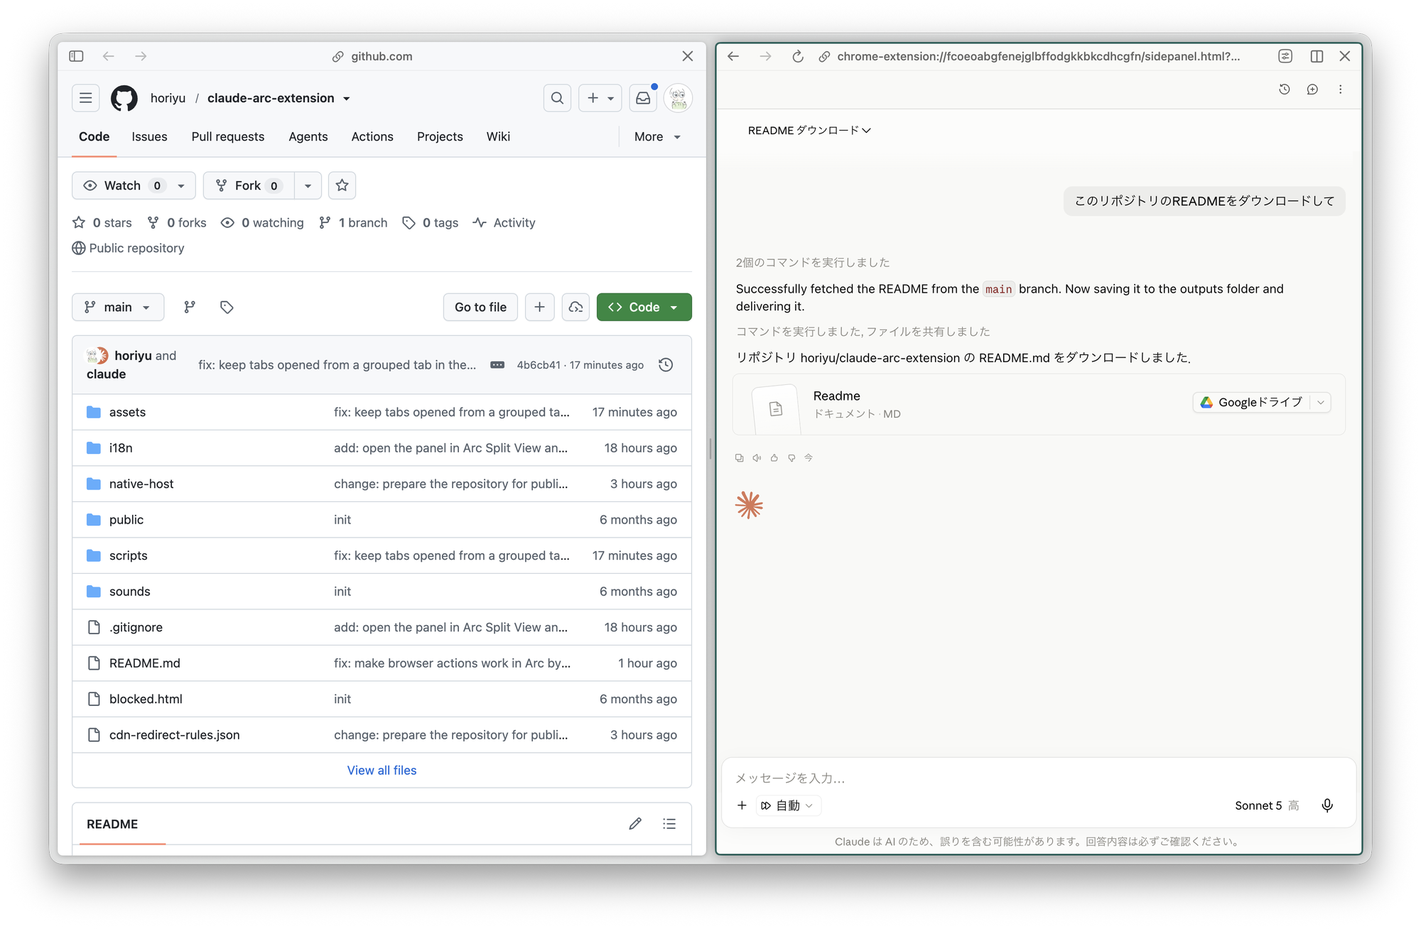
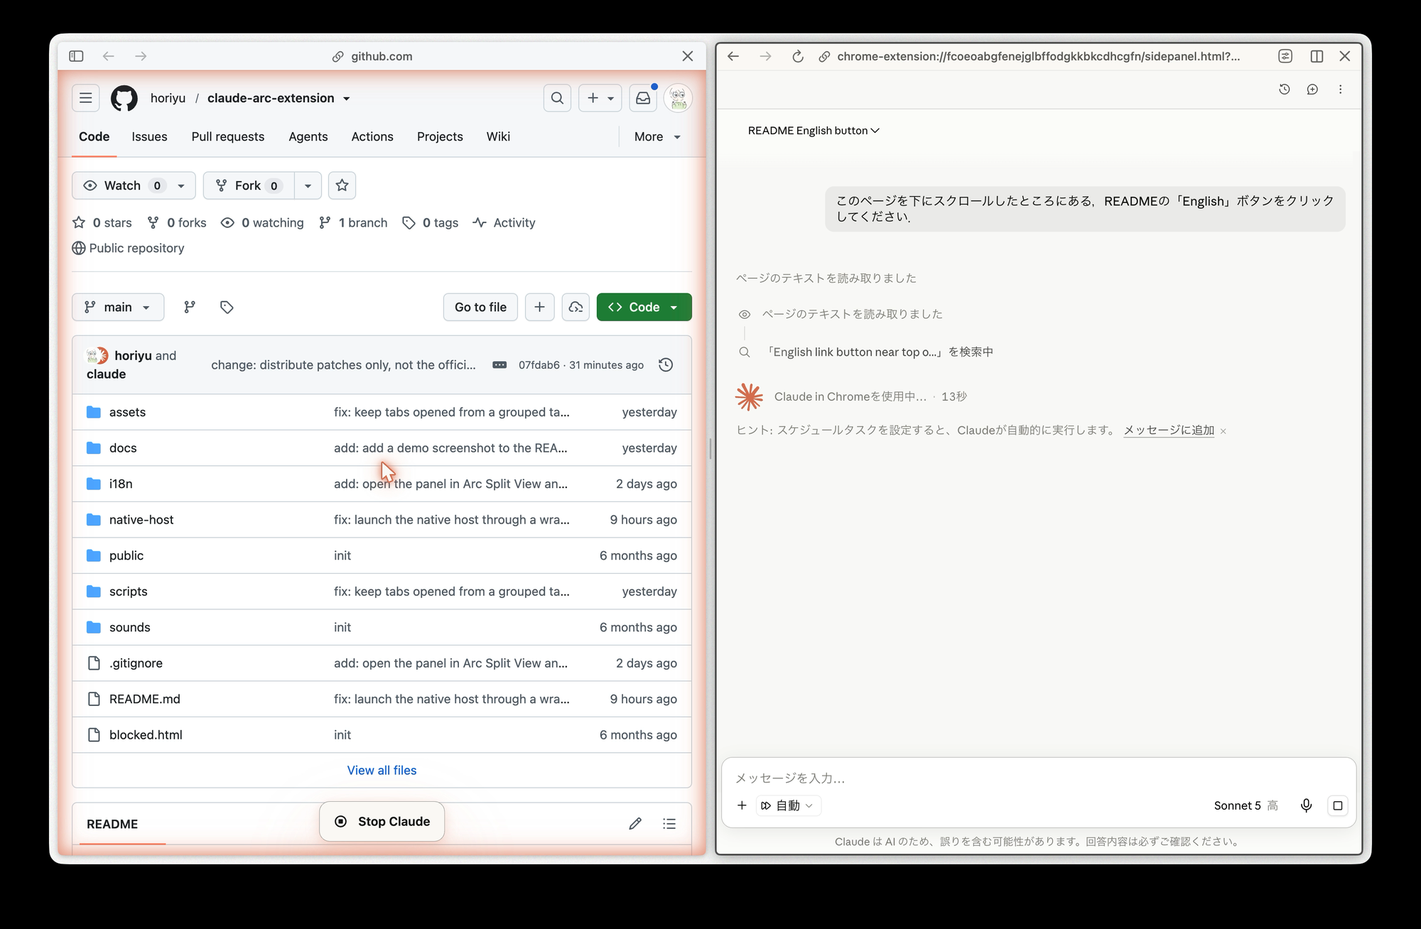
update: replace the demo screenshot with one showing an action in progress
Claude-Session: https://claude.ai/code/session_01GJ92grWsmEHpt6NHLjgGCB

diff --git a/README.md b/README.md
@@ -4,14 +4,14 @@
 
 ## 日本語
 
-公式の「Claude in Chrome」拡張機能のビルド済みバンドルに，Side Panel API を持たない Arc ブラウザで動作させるための変更を加えた，個人利用向けの非公式ビルドです．Claude のパネルは通常タブとして，または任意で Arc の Split View のペインとして開きます．
+公式の「Claude in Chrome」拡張機能を，Side Panel API を持たない Arc ブラウザで動かすための，個人利用向けの非公式パッチ集です．利用者が自分で入手した公式拡張機能に手元でパッチを当てて Arc 版を生成します．本リポジトリに Anthropic の配布物は含まれていません．生成した Claude のパネルは通常タブとして，または任意で Arc の Split View のペインとして開きます．
 
 > [!WARNING]
 > このリポジトリは非公式・実験的なものです．Anthropic，Claude，The Browser Company，Arc とは関係ありません．
 
 ![Arc の Split View で開いた Claude のパネルが，隣のタブの GitHub ページを操作している様子](docs/demo.png)
 
-左が操作対象のタブ，右が Split View で開いた Claude のパネルです．パネルからの指示で，隣のタブのページを読み取り，操作できます．
+左が操作対象のタブ，右が Split View で開いた Claude のパネルです．パネルからの指示で，隣のタブのページを読み取り，操作できます．操作中のタブにはオレンジ色の枠と「Stop Claude」ボタンが表示されます．
 
 ## 概要
 
@@ -24,9 +24,9 @@
 - タスクのスケジュール実行や通知を利用する
 - 必要に応じてファイル操作やダウンロード機能を利用する
 
-## ベースとなる公式拡張機能と変更点
+## 仕組みと変更点
 
-本リポジトリは，公式の「Claude in Chrome」拡張機能（バージョン 1.0.93）のビルド済みバンドルに，Arc 向けの変更を加えたものです．主な変更点は次の通りです．
+`build.sh` は，Chrome（または Arc）にインストール済みの公式「Claude in Chrome」拡張機能（拡張機能 ID `fcoeoabgfenejglbffodgkkbkcdhcgfn`）を `build/` に複製し，`scripts/` の 3 つのスクリプトで次の変更を加えます．公式拡張機能はバージョン 1.0.93 で確認しています．
 
 - Arc に Side Panel API が無いため，サイドパネルの代わりに拡張機能ページを通常タブとして開く
 - `Claude in Chrome` 等の表示文言を `Claude in Arc` に置換する
@@ -35,27 +35,15 @@
 - 拡張機能の読み込み前から開いていたページには，ページ読み取り用の補助スクリプトを実行時に注入する（公式版では該当ページの再読み込みが必要）
 - 任意で，同梱のネイティブホストにより Arc の Split View としてパネルを開く（後述）
 
-バンドル本体（`assets/`，`i18n/`，`sounds/`，`manifest.json` ほかリポジトリ直下のファイル）は，Anthropic が配布する同拡張機能（拡張機能 ID `fcoeoabgfenejglbffodgkkbkcdhcgfn`）の複製であり，本リポジトリの作者はこれらのファイルについて権利を主張しません．バンドルには gif.js や KaTeX フォントなど，それぞれのライセンスに従う第三者製コンポーネントも含まれます．上流との差分は，次節のスクリプトが書き換えるファイル（`manifest.json`，`sidepanel.html`，`managed_schema.json`，`i18n/*.json`，および `assets/` 内の service worker，ツール実行部，表示文言を含むいくつかのチャンク）と，本リポジトリで追加した `cdn-redirect-rules.json`，`native-host/`，`scripts/`，`README.md`，`.gitignore` に限られます．`git-hash.txt` は上流ビルドに含まれるコミットハッシュであり，本リポジトリのものではありません．
+スクリプトの役割は次の通りです．`apply_arc_patches.py` はマニフェスト，通常タブへのフォールバック，タブグループの擬似実装，補助スクリプトの注入，ネットワークルールを適用します．`patch_sender_checks.py` は，サイドパネルを通常タブで代替している Arc 版でも service worker がパネルからのメッセージを受け付けるようにします．`rebrand_chrome_strings.py` は，画面に表示される「Chrome」の表記を「Arc」に置き換えます．いずれも `build/` 内のファイルだけを書き換え，公式拡張機能のインストール先には触れません．
 
-## 公式ビルドの更新に追従する手順
-
-公式拡張機能が更新された場合は，Chrome にインストールされた新しいビルド（macOS では `~/Library/Application Support/Google/Chrome/<プロファイル>/Extensions/fcoeoabgfenejglbffodgkkbkcdhcgfn/<バージョン>_0/`．Chrome が生成する `_metadata/` は複製不要）を作業ディレクトリへ複製し，次の 3 つをこの順に実行します．
-
-```
-python3 scripts/apply_arc_patches.py <作業ディレクトリ>
-python3 scripts/patch_sender_checks.py <作業ディレクトリ>
-python3 scripts/rebrand_chrome_strings.py <作業ディレクトリ>
-```
-
-1 つ目はマニフェスト，通常タブへのフォールバック，タブグループの擬似実装，補助スクリプトの注入，ネットワークルールを適用します．2 つ目は，サイドパネルを通常タブで代替している Arc 版でも service worker がパネルからのメッセージを受け付けるようにする修正です．3 つ目は，画面に表示される「Chrome」の表記を「Arc」に置き換えます．実行後，本リポジトリのうち `scripts/`，`native-host/`，`README.md`，`.gitignore` 以外を作業ディレクトリの内容で置き換えます（新しいビルドに無くなったファイルは削除します）．
-
-最初の 2 つのスクリプトは minify された識別子を文字列一致で探して書き換えるため，公式ビルド側のコードが変わると `AssertionError` で停止します．その場合はスクリプト内の検索パターンを新しいビルドに合わせて更新してください．3 つ目は見つからない語句を読み飛ばすだけで停止しないため，出力される置換件数を確認し，残った「Chrome」表記があれば語句リストに追加してください．
+生成物 `build/` は，利用者自身が入手した公式拡張機能の複製にパッチを当てたものです．その権利は Anthropic および各コンポーネント（gif.js や KaTeX フォントなど）の元の著作権者に帰属します．本リポジトリの作者が権利を有するのは `scripts/`，`native-host/`，`build.sh` および Arc 向けの変更内容に限られ，`build/` は `.gitignore` により追跡対象外です．
 
 ## 注意事項
 
 この拡張機能は開発者向け・検証用途のものです．公開ストアで配布される一般利用向け拡張機能ではありません．
 
-また，`manifest.json` では以下のような強い権限を要求します（完全な一覧は `manifest.json` の `permissions` を参照してください）．
+また，生成される `manifest.json` は以下のような強い権限を要求します（完全な一覧は `manifest.json` の `permissions` を参照してください）．
 
 - `host_permissions: ["<all_urls>"]`
 - `debugger`
@@ -76,22 +64,25 @@ python3 scripts/rebrand_chrome_strings.py <作業ディレクトリ>
 
 ### 前提条件
 
-- Arc（macOS 版で確認）．拡張機能本体はこれだけで動きます
+- macOS と Arc
+- 同じ Mac の Chrome（または Arc）に，Chrome Web Store から公式の「Claude in Chrome」拡張機能がインストールされていること．`build.sh` はそこから複製します
+- Python 3（`build.sh` と，Split View 連携のネイティブホストが使います）．`/usr/bin/python3`（Xcode Command Line Tools），python.org 版，Homebrew 版のいずれかで構いません．`/usr/bin/python3` は Xcode の更新後にライセンス再同意（`sudo xcodebuild -license accept`）を求めて停止することがありますが，他の Python があればそちらが使われます
 - claude.ai のアカウント．パネルは有料プランを要求します
-- Split View 連携を使う場合は macOS と Python 3．ホストの起動スクリプト（`native-host/claude-arc-host`）が `/usr/bin/python3`（Xcode Command Line Tools），python.org 版，Homebrew 版の順に，実際に起動できるものを選びます．`/usr/bin/python3` は Xcode の更新後にライセンス再同意（`sudo xcodebuild -license accept`）を求めて停止することがありますが，他の Python があればそちらが使われます．`install.sh` が Arc と同じ条件で起動を確認します
 
 ### 手順
 
 1. このリポジトリをローカルに clone する
-2. Arc を開き，アドレスバーに `arc://extensions` と入力する
-3. 右上の「デベロッパーモード」を有効化する
-4. 「パッケージ化されていない拡張機能を読み込む」をクリックする
-5. このリポジトリのディレクトリを選択する
+2. `bash build.sh` を実行する．公式拡張機能の最新版を探して `build/` に Arc 版を生成する．複数のプロファイルにある場合は最も新しいバージョンを使う．別の場所にある場合は `bash build.sh <公式拡張機能のディレクトリ>` と指定する
+3. Arc を開き，アドレスバーに `arc://extensions` と入力する
+4. 右上の「デベロッパーモード」を有効化する
+5. 「パッケージ化されていない拡張機能を読み込む」をクリックし，`build/` を選択する
 6. ツールバーの Claude アイコンをクリックする（Cmd+E でも開く）．パネルは通常タブとして開き，claude.ai へのサインインを求められる
 
-ビルド工程はありません．clone したディレクトリをそのまま読み込めば動作します．`manifest.json` に公開鍵が含まれているため，拡張機能 ID はどのディレクトリから読み込んでも同じです．隣のペインに開きたい場合は次節の設定を追加してください．
+生成物の `manifest.json` には公式版の公開鍵が含まれているため，拡張機能 ID は公式版と同じになり，どのディレクトリから読み込んでも変わりません．隣のペインに開きたい場合は次節の設定を追加してください．
 
-拡張機能を外すには，`arc://extensions` で「削除」を押してから，clone したディレクトリを削除します．先にディレクトリを消すと一覧に壊れた項目が残ります．Split View 連携を登録している場合は次節の解除手順も実行してください．
+公式拡張機能が Chrome 側で更新されたら，`bash build.sh` を再実行し，`arc://extensions` で再読み込みしてください．最初の 2 つのスクリプトは minify された識別子を文字列一致で探して書き換えるため，公式ビルド側のコードが変わると `AssertionError` で停止します．その場合はスクリプト内の検索パターンを新しいビルドに合わせて更新してください．3 つ目は見つからない語句を読み飛ばすだけで停止しないため，出力される置換件数を確認し，残った「Chrome」表記があれば語句リストに追加してください．
+
+拡張機能を外すには，`arc://extensions` で「削除」を押してから，`build/` を削除します．先にディレクトリを消すと一覧に壊れた項目が残ります．Split View 連携を登録している場合は次節の解除手順も実行してください．
 
 ## Split View で開く（任意）
 
@@ -132,7 +123,7 @@ rm -f ~/Library/Logs/claude-arc-host.log ~/Library/Logs/claude-arc-splitview.err
 
 ## 利用前に確認すること
 
-- 拡張機能の権限を確認してください
+- 生成される拡張機能の権限を確認してください
 - 機密情報を扱うページで利用しないでください
 - 重要な作業環境や本番環境では利用しないでください
 - Claude，Arc，Chrome の仕様変更により動作しなくなる可能性があります
@@ -145,21 +136,21 @@ rm -f ~/Library/Logs/claude-arc-host.log ~/Library/Logs/claude-arc-splitview.err
 ## ライセンス
 
 現時点ではライセンスを明示していません．
-同梱の拡張機能本体（`assets/`，`i18n/`，`manifest.json` など公式ビルド由来のファイル）の権利は Anthropic および各コンポーネントの元の著作権者に帰属し，本リポジトリの作者が権利を有するのは `scripts/`，`native-host/` および Arc 向けの変更部分に限られます．
+本リポジトリに含まれるのは `scripts/`，`native-host/`，`build.sh` と文書だけであり，公式拡張機能の複製は含まれていません．`build.sh` が生成する `build/` の権利は Anthropic および各コンポーネントの元の著作権者に帰属するため，生成物を再配布しないでください．
 明示的な許可なく，本リポジトリの内容を再配布・商用利用しないでください．
 
 ---
 
 ## English
 
-An unofficial, personal-use build of the official "Claude in Chrome" extension with patches that make it run in Arc Browser, which lacks the Side Panel API. The Claude panel opens as a regular tab or, optionally, in an Arc Split View pane.
+An unofficial, personal-use set of patches that makes the official "Claude in Chrome" extension run in Arc Browser, which lacks the Side Panel API. You patch your own copy of the official extension locally to produce the Arc build; this repository contains nothing distributed by Anthropic. The generated Claude panel opens as a regular tab or, optionally, in an Arc Split View pane.
 
 > [!WARNING]
 > This repository is unofficial and experimental. It is not affiliated with Anthropic, Claude, The Browser Company, or Arc.
 
 ![The Claude panel opened in an Arc Split View pane, working on the GitHub page in the neighbouring tab](docs/demo.png)
 
-Left: the tab being worked on. Right: the Claude panel opened in a Split View pane. Instructions given in the panel read and operate the page in the neighbouring tab.
+Left: the tab being worked on. Right: the Claude panel opened in a Split View pane. Instructions given in the panel read and operate the page in the neighbouring tab. The tab being operated shows an orange border and a "Stop Claude" button.
 
 ## Overview
 
@@ -172,9 +163,9 @@ Main use cases include:
 - Using scheduled tasks and notifications
 - Using file operations and downloads when needed
 
-## Upstream Extension and Modifications
+## How It Works and What Is Changed
 
-This repository is the built bundle of the official "Claude in Chrome" extension (version 1.0.93) with Arc-specific modifications applied:
+`build.sh` copies the official "Claude in Chrome" extension (extension ID `fcoeoabgfenejglbffodgkkbkcdhcgfn`) installed in Chrome (or Arc) into `build/` and applies the following changes with the three scripts in `scripts/`. Verified against version 1.0.93 of the official extension.
 
 - Because Arc lacks the Side Panel API, the panel page is opened as a regular tab instead
 - Display strings such as `Claude in Chrome` are replaced with `Claude in Arc`
@@ -183,27 +174,15 @@ This repository is the built bundle of the official "Claude in Chrome" extension
 - Pages that were open before the extension loaded get the page-reading helper script injected on demand (the official build asks you to reload such pages)
 - Optionally, a bundled native host opens the panel as an Arc Split View pane (see below)
 
-The bundle itself (`assets/`, `i18n/`, `sounds/`, `manifest.json` and the other files at the repository root) is a copy of that extension as distributed by Anthropic (extension ID `fcoeoabgfenejglbffodgkkbkcdhcgfn`); the author of this repository claims no rights over these files. The bundle also contains third-party components such as gif.js and the KaTeX fonts, each under its own license. The differences from upstream are limited to the files rewritten by the scripts described in the next section (`manifest.json`, `sidepanel.html`, `managed_schema.json`, `i18n/*.json`, and a few chunks in `assets/`: the service worker, the tool executor, and chunks containing user-facing strings) plus the files added by this repository (`cdn-redirect-rules.json`, `native-host/`, `scripts/`, `README.md`, `.gitignore`). `git-hash.txt` is the commit hash shipped with the upstream build, not one of this repository.
+The scripts: `apply_arc_patches.py` applies the manifest changes, the regular-tab fallback, the tab-group emulation, the on-demand script injection, and the network rules. `patch_sender_checks.py` makes the service worker accept messages from the panel even though Arc hosts it in a regular tab instead of a side panel. `rebrand_chrome_strings.py` replaces user-facing "Chrome" wording with "Arc". All of them rewrite files under `build/` only and never touch the official installation.
 
-## Following Upstream Updates
-
-When the official extension is updated, copy the new build installed in Chrome (on macOS: `~/Library/Application Support/Google/Chrome/<Profile>/Extensions/fcoeoabgfenejglbffodgkkbkcdhcgfn/<version>_0/`; the Chrome-generated `_metadata/` directory is not needed) into a working directory and run the following three scripts in this order:
-
-```
-python3 scripts/apply_arc_patches.py <working-directory>
-python3 scripts/patch_sender_checks.py <working-directory>
-python3 scripts/rebrand_chrome_strings.py <working-directory>
-```
-
-The first applies the manifest changes, the regular-tab fallback, the tab-group emulation, the on-demand script injection, and the network rules. The second makes the service worker accept messages from the panel even though Arc hosts it in a regular tab instead of a side panel. The third replaces user-facing "Chrome" wording with "Arc". Then replace everything in this repository except `scripts/`, `native-host/`, `README.md`, and `.gitignore` with the contents of the working directory (deleting files that no longer exist in the new build).
-
-The first two scripts locate minified identifiers by exact string match and stop with an `AssertionError` when the upstream code has changed; update the search patterns in the scripts for the new build in that case. The third only skips phrases it cannot find, so check the replacement counts it prints and add any remaining "Chrome" wording to its phrase list.
+The generated `build/` is a patched copy of the official extension you obtained yourself. It remains the property of Anthropic and of the respective upstream copyright holders of its components (such as gif.js and the KaTeX fonts). The author of this repository holds rights only over `scripts/`, `native-host/`, `build.sh`, and the Arc-specific modifications; `build/` is excluded from version control by `.gitignore`.
 
 ## Important Notes
 
 This extension is intended for developers and experimental use. It is not a general-purpose extension distributed through a public extension store.
 
-The `manifest.json` requests powerful permissions, including the following (see `permissions` in `manifest.json` for the full list):
+The generated `manifest.json` requests powerful permissions, including the following (see `permissions` in `manifest.json` for the full list):
 
 - `host_permissions: ["<all_urls>"]`
 - `debugger`
@@ -224,22 +203,25 @@ Use this extension only in an environment you control and only after understandi
 
 ### Requirements
 
-- Arc (tested on macOS). The extension itself needs nothing else
+- macOS and Arc
+- The official "Claude in Chrome" extension installed from the Chrome Web Store in Chrome (or Arc) on the same Mac; `build.sh` copies it from there
+- Python 3 (used by `build.sh` and by the Split View native host). Any of `/usr/bin/python3` (Xcode Command Line Tools), the python.org build, or the Homebrew build is fine. `/usr/bin/python3` stops working after an Xcode update until the license is accepted again (`sudo xcodebuild -license accept`); another installed Python is used in that case
 - A claude.ai account; the panel requires a paid plan
-- For the Split View integration: macOS and Python 3. The host launcher (`native-host/claude-arc-host`) tries `/usr/bin/python3` (Xcode Command Line Tools), the python.org build, and the Homebrew build in that order and uses the first one that actually runs. `/usr/bin/python3` stops working after an Xcode update until the license is accepted again (`sudo xcodebuild -license accept`); another installed Python is used in that case. `install.sh` checks that the host starts under the conditions Arc uses
 
 ### Steps
 
 1. Clone this repository locally
-2. Open Arc and enter `arc://extensions` in the address bar
-3. Enable "Developer mode" in the top-right corner
-4. Click "Load unpacked"
-5. Select this repository directory
+2. Run `bash build.sh`. It finds the newest installed official extension and generates the Arc build in `build/`. If it is installed somewhere else, pass the directory: `bash build.sh <official-extension-dir>`
+3. Open Arc and enter `arc://extensions` in the address bar
+4. Enable "Developer mode" in the top-right corner
+5. Click "Load unpacked" and select `build/`
 6. Click the Claude icon in the toolbar (Cmd+E also works). The panel opens as a regular tab and asks you to sign in to claude.ai
 
-There is no build step: the cloned directory can be loaded as is. Because `manifest.json` contains the public key, the extension ID is the same regardless of the directory it is loaded from. To open the panel next to the current tab, add the setup in the next section.
+Because the generated `manifest.json` carries the official public key, the extension ID is the same as the official one regardless of the directory it is loaded from. To open the panel next to the current tab, add the setup in the next section.
 
-To uninstall, click "Remove" in `arc://extensions` first and then delete the cloned directory; deleting the directory first leaves a broken entry in the list. If you registered the Split View integration, also run the removal steps in the next section.
+When the official extension updates in Chrome, run `bash build.sh` again and reload the extension in `arc://extensions`. The first two scripts locate minified identifiers by exact string match and stop with an `AssertionError` when the upstream code has changed; update the search patterns in the scripts for the new build in that case. The third only skips phrases it cannot find, so check the replacement counts it prints and add any remaining "Chrome" wording to its phrase list.
+
+To uninstall, click "Remove" in `arc://extensions` first and then delete `build/`; deleting the directory first leaves a broken entry in the list. If you registered the Split View integration, also run the removal steps in the next section.
 
 ## Opening in Split View (optional)
 
@@ -280,7 +262,7 @@ Finally, remove `/usr/bin/osascript` from the list in System Settings → Privac
 
 ## Before Use
 
-- Review the extension permissions
+- Review the permissions of the generated extension
 - Do not use it on pages that handle sensitive information
 - Do not use it in critical work environments or production environments
 - It may stop working due to changes in Claude, Arc, or Chrome
@@ -293,5 +275,5 @@ The author assumes no responsibility for any damage, malfunction, data loss, inf
 ## License
 
 No license is currently specified.
-The bundled extension itself (`assets/`, `i18n/`, `manifest.json`, and the other files derived from the official build) remains the property of Anthropic and the respective upstream copyright holders; the author of this repository holds rights only over `scripts/`, `native-host/`, and the Arc-specific modifications.
+This repository contains only `scripts/`, `native-host/`, `build.sh`, and documentation; it contains no copy of the official extension. The `build/` directory that `build.sh` generates remains the property of Anthropic and the respective upstream copyright holders, so do not redistribute it.
 Do not redistribute or use the contents of this repository commercially without explicit permission.
